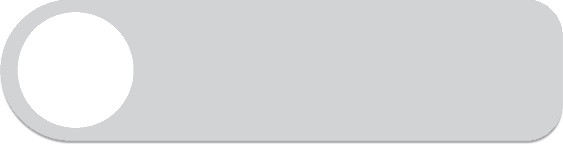
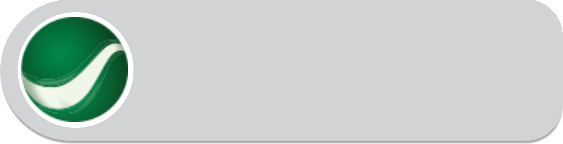
strip

Changed region(s): [[0.0302, 0.1111, 0.2416, 0.8611]]

diff --git a/assets/front/rotanav2/css/style.css b/assets/front/rotanav2/css/style.css
@@ -46,6 +46,8 @@ button:active,
   /* End Filter Page */
   /* Start Fav Page */
   /* End Fav Page */
+  /* Start Fav Page */
+  /* End Fav Page */
 }
 .new_rotana .header_head {
   padding: 0.75rem 0;
@@ -184,7 +186,7 @@ button:active,
   font-size: 1.1rem;
   color: #d2d3d5;
   position: absolute;
-  top: 90%;
+  top: 85%;
   left: 12%;
   transform: translate(-50%, -50%);
   -webkit-transform: translate(-50%, -50%);
@@ -194,6 +196,15 @@ button:active,
 }
 .new_rotana .main_fav .fav_list .fav_list_img a.first_list_img_heart.first_list_img_heart, .new_rotana .main_fav .fav_list .fav_list_img a.first_list_img_share.first_list_img_heart {
   left: 31%;
+}
+.new_rotana .no_filter .sub_img {
+  position: relative;
+}
+.new_rotana .no_filter .sub_img .font_not_filter {
+  position: absolute;
+  top: 28%;
+  left: 3%;
+  font-size: 1.1rem;
 }
 
 /* Start Footer */

diff --git a/assets/front/rotanav2/scss/style.scss b/assets/front/rotanav2/scss/style.scss
@@ -256,6 +256,7 @@ button,
         }
       }
     }
+
     .fav_list {
       .fav_list_img {
         border-right: 1px solid $black_color;
@@ -275,7 +276,7 @@ button,
             font-size: 1.1rem;
             color: $grey_color;
             position: absolute;
-            top: 90%;
+            top: 85%;
             left: 12%;
             transform: translate(-50%, -50%);
             -webkit-transform: translate(-50%, -50%);
@@ -289,6 +290,22 @@ button,
             }
           }
         }
+      }
+    }
+  }
+
+  /* End Fav Page */
+
+  /* Start Fav Page */
+  .no_filter {
+    .sub_img {
+      position: relative;
+
+      .font_not_filter {
+        position: absolute;
+        top: 28%;
+        left: 3%;
+        font-size: 1.1rem;
       }
     }
   }

diff --git a/resources/views/front/rotanav2/ajaxfav.blade.php b/resources/views/front/rotanav2/ajaxfav.blade.php
@@ -1,13 +1,13 @@
 @foreach ($snap as $item)
 <div class="col-4 p-0">
-  <div class="fav_list_img">
+  <div class="fav_list_img mb-2">
     <a href="{{url($item->snap_link)}}" target="_blank">
       <img class="w-100 m-auto d-block rotate-scale-down wow" data-wow-delay="1.6s" data-wow-duration="0.9s" data-wow-offset="100" src="{{url($item->path)}}" alt="Filter">
-      
+
       <a id="{{$item->id}}" class="first_list_img_heart heart_heart active_heart" onclick="fav('{{$item->id}}');$(this).toggleClass('active_heart');" href="javascript:void(0)">
         <i class="fas fa-heart heart_heart rotate-scale-down wow" data-wow-delay="1.6s" data-wow-duration="0.9s" data-wow-offset="100"></i>
       </a>
-      
+
       <a class="first_list_img_share" href="#0" onclick="sharebtn('{{$item->id}}')" data-toggle="modal" data-target="#modalForShare">
         <i class="fas fa-share-square rotate-scale-down wow" data-wow-delay="1.6s" data-wow-duration="0.9s" data-wow-offset="100"></i>
       </a>

diff --git a/resources/views/front/rotanav2/nofilter.blade.php b/resources/views/front/rotanav2/nofilter.blade.php
@@ -1,9 +1,9 @@
-<div class="col-12 mb-3 swirl-out-bck">
-  <div class="sub_img">
-    <img class="w-75 d-block img_logo_st" src="{{url('assets/front/rotanav2/images/strip.png')}}" alt="strip">
-    <img class="frame_icon rounded-circle not_fo" src="{{url('assets/front/rotanav2/images/Rotana_Green.png')}}"
-      alt="Rotana Logo">
-    <h6 class="text-black text-center font_not_filter">{!! static_lang('nofilter')?static_lang('nofilter') : 'لا يوجد
-      فلاتر' !!}</h6>
+<section class="no_filter w-100">
+  <div class="col-12 mb-3 swirl-out-bck">
+    <div class="sub_img">
+      <img class="w-75 d-block m-auto img_logo_st" src="{{url('assets/front/rotanav2/images/strip.png')}}" alt="strip">
+      <h6 class="text-black text-center font_not_filter w-100">{!! static_lang('nofilter')?static_lang('nofilter') : 'لا يوجد
+        فلاتر' !!}</h6>
+    </div>
   </div>
-</div>
+</section>

diff --git a/resources/views/front/rotanav2/occasions.blade.php b/resources/views/front/rotanav2/occasions.blade.php
@@ -8,7 +8,7 @@
       @foreach ($Occasions as $item)
       @if ($item->greetingimgs()->get()->count() > 0)
       <div class="col-4 p-0">
-        <div class="first_list_img">
+        <div class="first_list_img mb-2">
           <a href="{{url('/rotanav2/'.$item->id.'/filter/'.uid())}}">
             <img class="w-100 d-block m-auto rotate-scale-down wow" data-wow-delay="1s" data-wow-duration="0.9s" data-wow-offset="100" src="{{url($item->image)}}" alt="Filter">
           </a>
